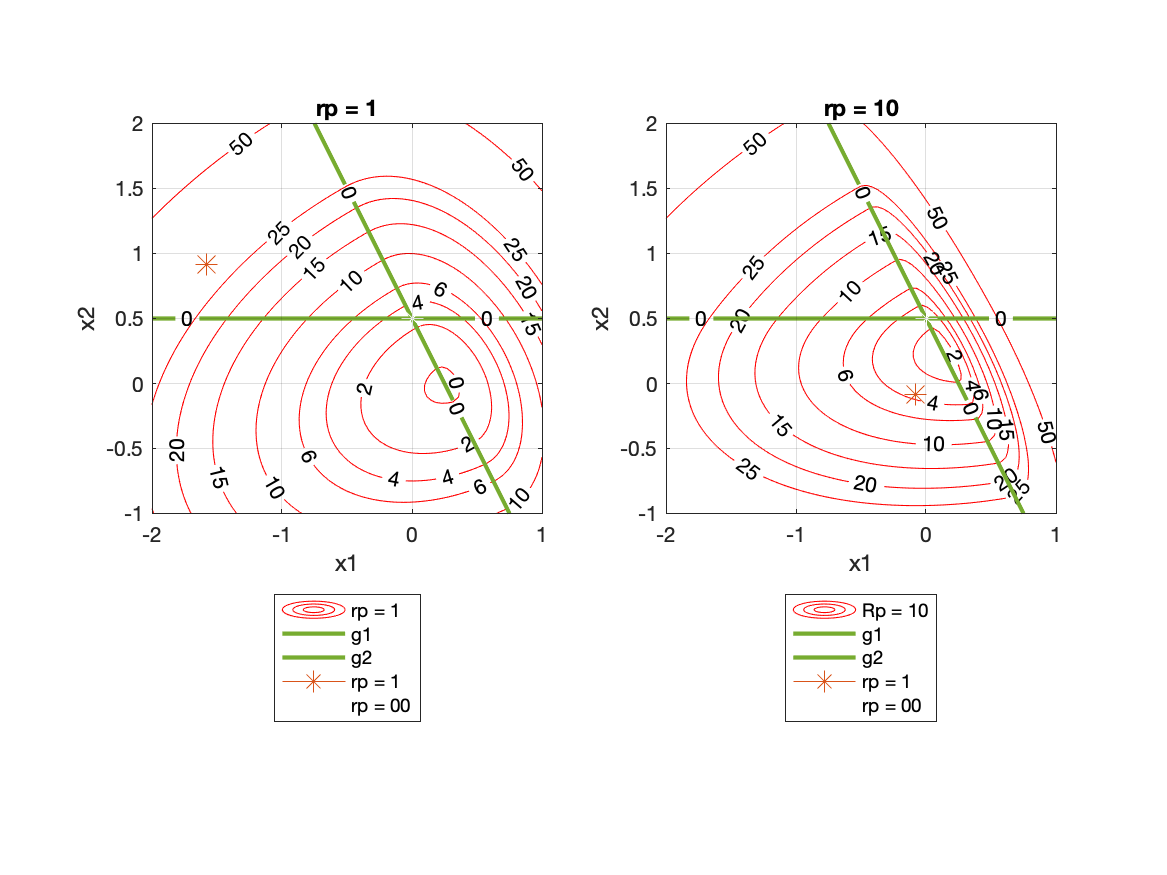
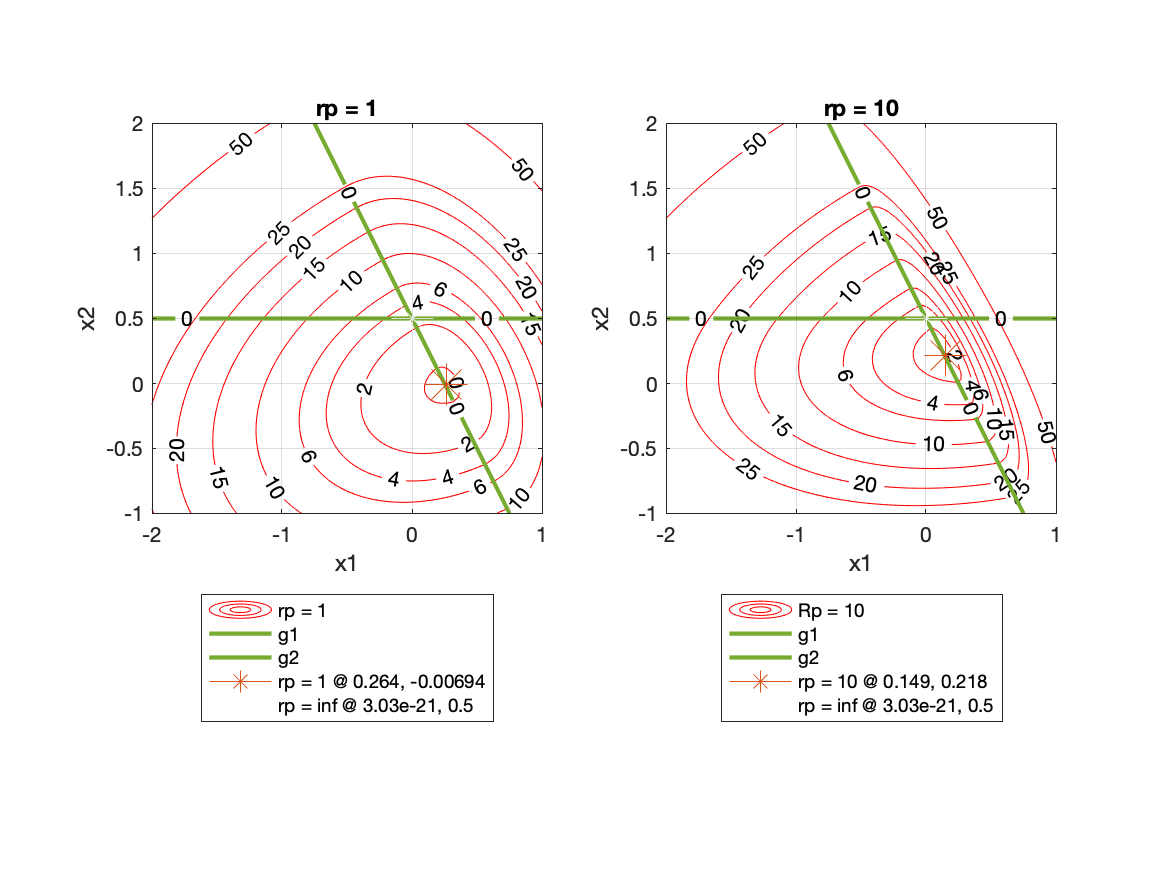
Ready for 4.4
Reading through notes on laguardian

diff --git a/HW4.m b/HW4.m
@@ -24,7 +24,7 @@ Pt0 = [5 2];
 x1V(1,1) = Pt0(1,1);
 x2V(1,1) = Pt0(1,2);
 LabeLine = [0 0 2 2 4 4 6 6 10 10 15 15 20 20 25 25 50 50];
-linelable = [0,2,4,6,10,20,25,50];
+% linelable = [0,2,4,6,10,20,25,50];
 
 %% %%%%%%%%%%%%%%%%%%%%%%%%% 4.1 Graphs %%%%%%%%%%%%%%%%%%%%%%%%%%%%%%%%%
 
@@ -170,7 +170,7 @@ dx2 = solve(diff(objFUN1_syms,x2)==0,x2)
 
 
 ONLYx1 = subs(dx1,x2,dx2)
-x1_in_rp = solve(ONLYx1,x1)
+x1_in_rp = solve(x1==ONLYx1,x1)
 % ONLYx2 = subs(dx2,x1,dx1)
 % x2_in_rp = solve(ONLYx2,x2)
 
@@ -186,17 +186,21 @@ x2_from_i = double(subs(dx2, [x1,rp_],[x1_stat_inf,9999999999999999]))
 
 subplot(RP1)
 hold on
-plot(x1_stat_1,x2_from_1,'Marker','*','DisplayName','rp = 1',...
-    'MarkerSize',10,'Color','#D95319')
-plot(x1_stat_inf,x2_from_i,'Marker','*','DisplayName','rp = 00',...
-    'MarkerSize',10,'Color','w')
+plot(x1_stat_1,x2_from_1,'Marker','*',...
+    'DisplayName',sprintf('rp = 1 @ %.3g, %.3g',x1_stat_1,x2_from_1),...
+    'MarkerSize',20,'Color','#D95319')
+plot(x1_stat_inf,x2_from_i,'Marker','*',...
+    'DisplayName',sprintf('rp = inf @ %.3g, %.3g',x1_stat_inf,x2_from_i),...
+    'MarkerSize',20,'Color','w')
 hold off
 subplot(RP10)
 hold on
-plot(x1_stat_10,x1_stat_10,'Marker','*','DisplayName','rp = 1',...
-    'MarkerSize',10,'Color','#D95319')
-plot(x1_stat_inf,x2_from_i,'Marker','*','DisplayName','rp = 00',...
-    'MarkerSize',10,'Color','w')
+plot(x1_stat_10,x2_from_10,'Marker','*',...
+    'DisplayName',sprintf('rp = 10 @ %.3g, %.3g',x1_stat_10,x2_from_10),...
+    'MarkerSize',20,'Color','#D95319')
+plot(x1_stat_inf,x2_from_i,'Marker','*',...
+    'DisplayName',sprintf('rp = inf @ %.3g, %.3g',x1_stat_inf,x2_from_i),...
+    'MarkerSize',20,'Color','w')
 hold off
 
 %%%%%%%%%%%%%%% save %%%%%%%%%%%%%%%
@@ -311,19 +315,20 @@ for rpp = [1,0.1]
     subplot(pl(x))
     hold on
     plot(small(1),small(2),'Marker','*','DisplayName',...
-        sprintf('rp_min %g',rpp),...
-        'MarkerSize',10,'Color','b'); 
-    sprintf('rp found at: x1 %g ,  x2 %g',small(1),small(2))
+        sprintf('rp''_m_i_n %.3g @ %.3g,%.3g',rpp,small),...
+        'MarkerSize',20,'Color','b'); 
+    fprintf('rp found at: x1 %.3g ,  x2 %.3g \n',small(1),small(2))
     x=x+1;
     hold off
 end
 
 
-%% %%%%%%%%%%%%%%%%%%%%%%%%%  %%%%%%%%%%%%%%%%%%%%%%%%%%%%%
+%% %%%%%%%%%%%%%%%%%%%%%%%%% ALM %%%%%%%%%%%%%%%%%%%%%%%%%%%%%
 
+lam1 = [3;24];
+lam2 = [-5;-5];
 
-
-
+A = @(x1,x2,lam11,lam12,lam21,lam22,rp) mF(x1,x2) ;
 
 
 
